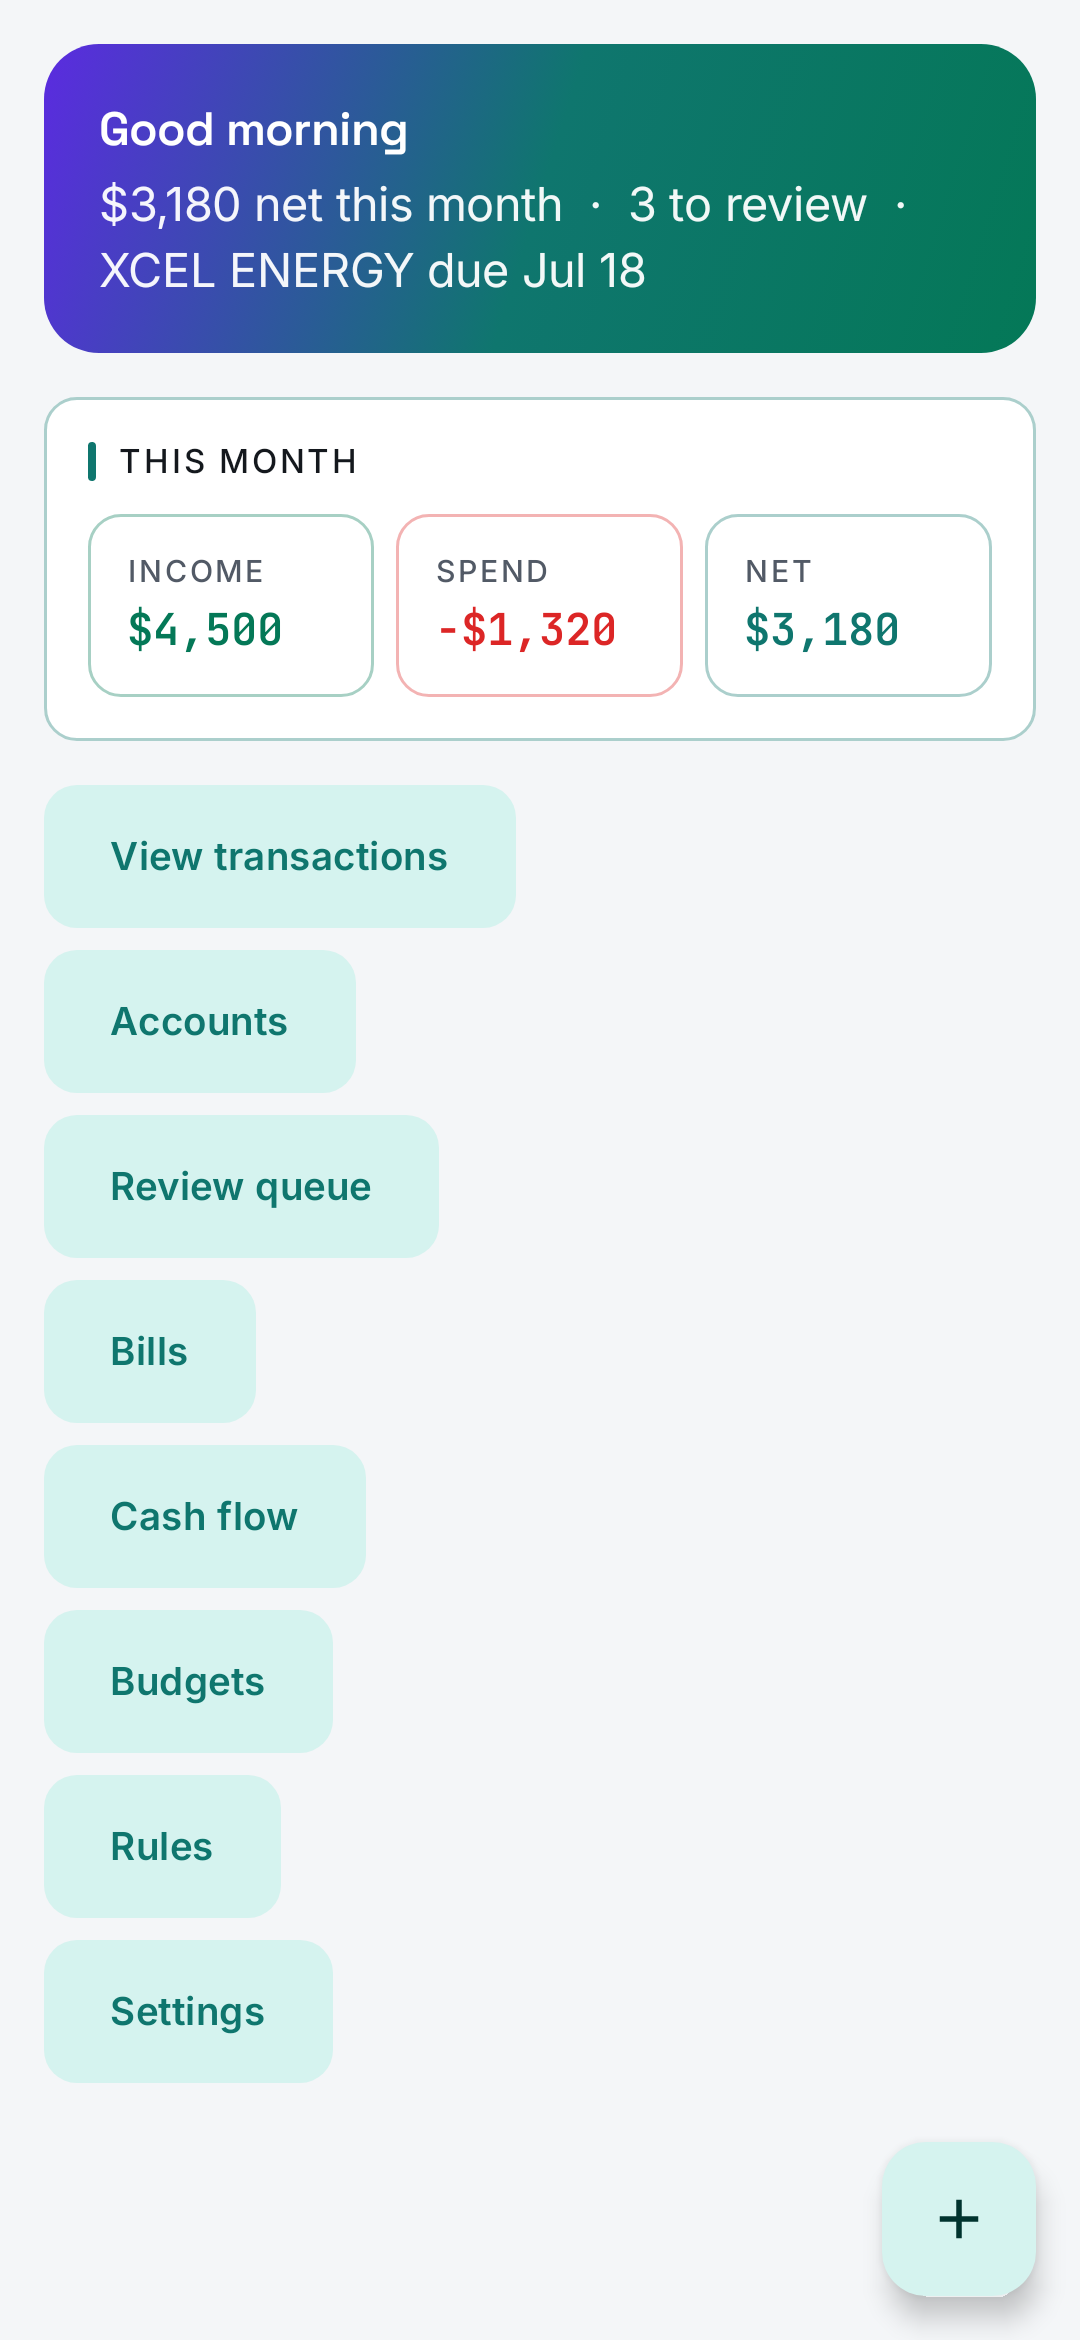
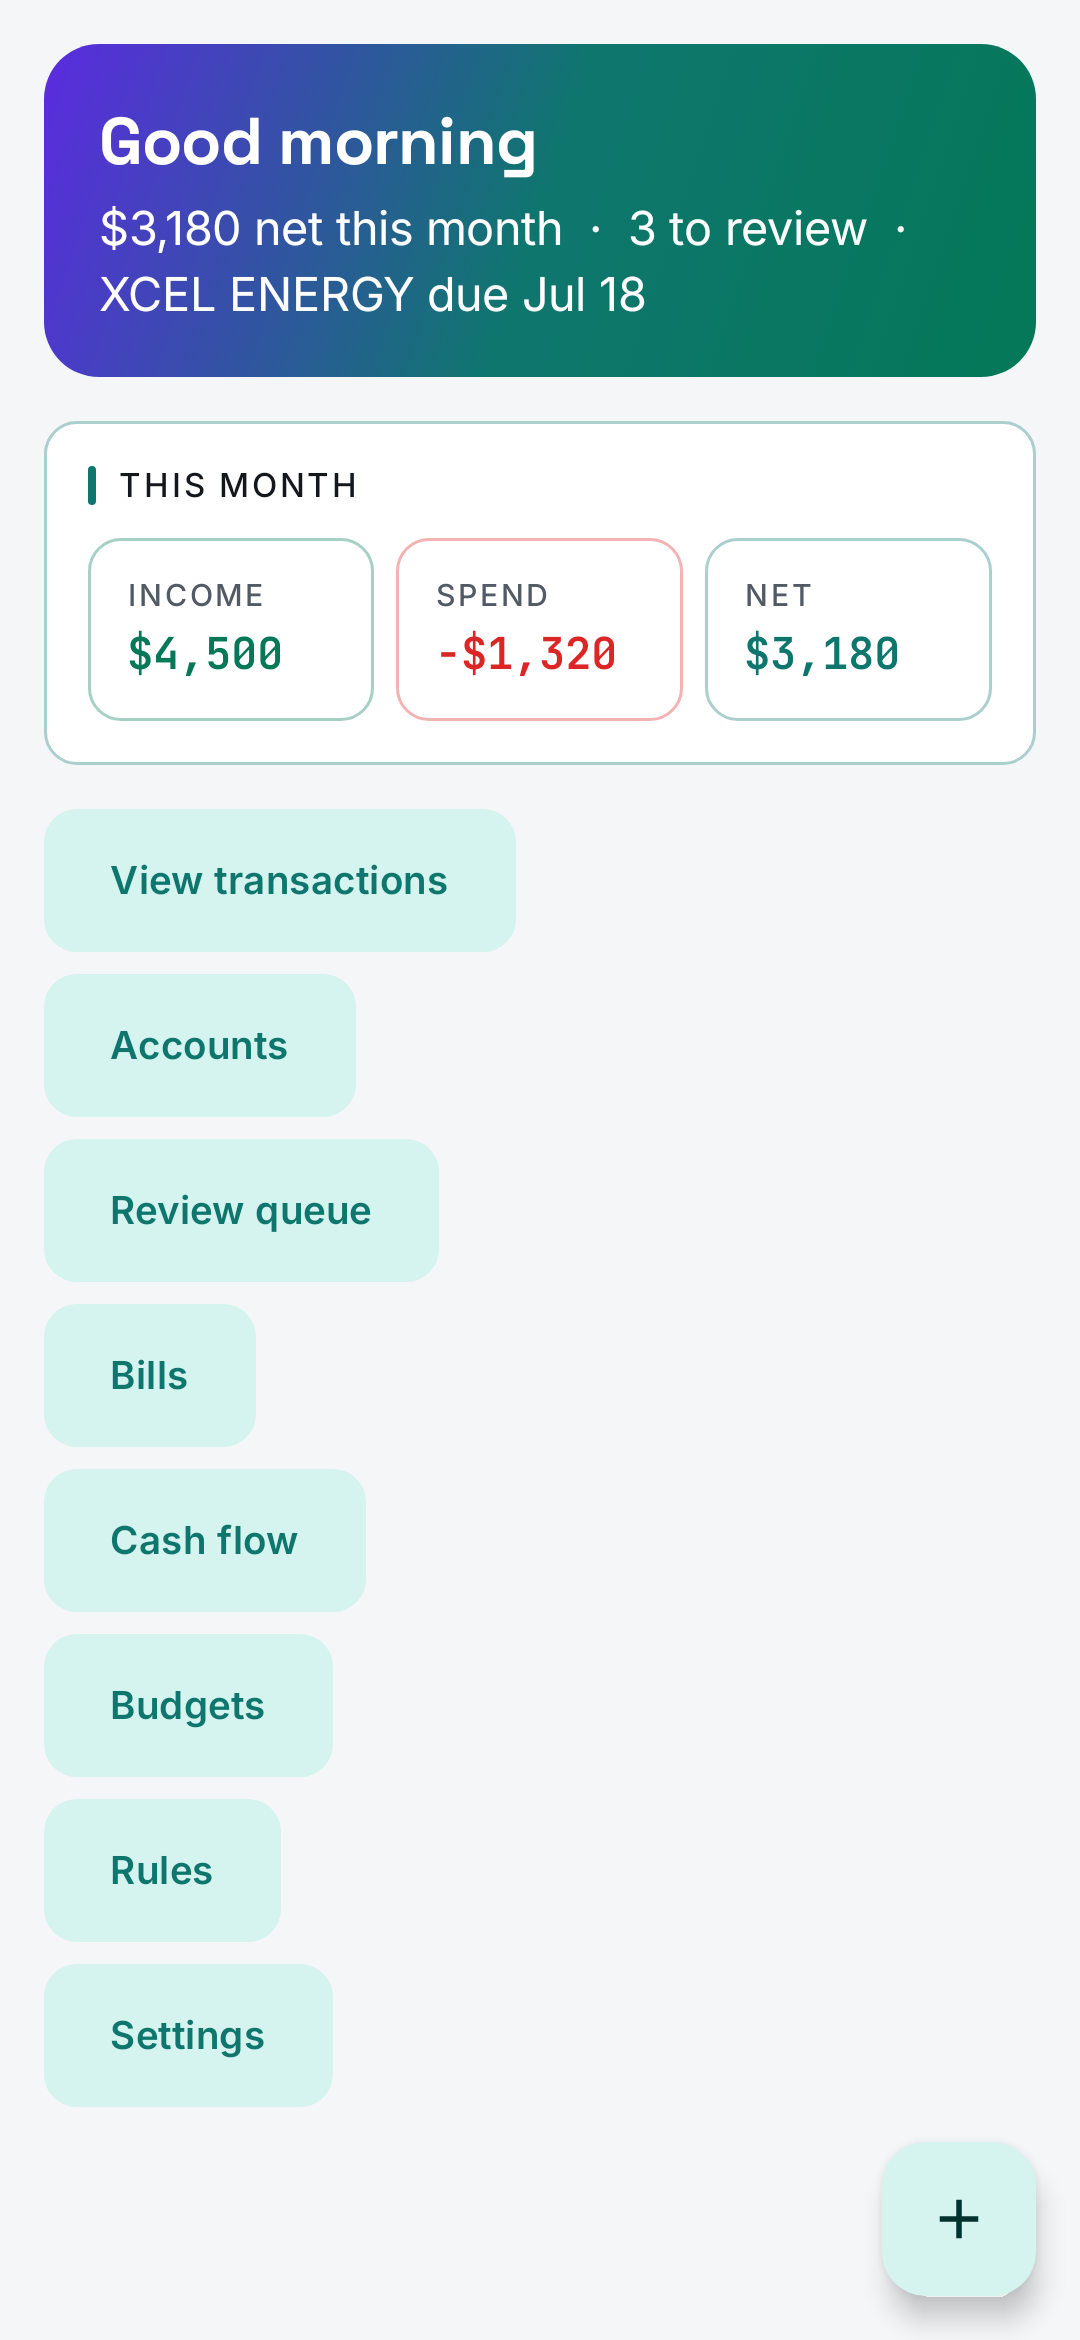
Tier 4 #28: enlarge hero text to Spotter's sizing
On-device the greeting read small. Matched Spotter's GreetingPanel: greeting
goes titleMedium -> headlineMedium (bold, prominent), and the status line is
full white (not 0.85 alpha) so it clears AA contrast on the hero gradient.
Home Roborazzi baselines re-recorded + eyeballed.

Claude-Session: https://claude.ai/code/session_014KjXd8hrEmpDJcuUSqhmB1

diff --git a/android/app/src/main/java/com/magpie/ui/home/HomeScreen.kt b/android/app/src/main/java/com/magpie/ui/home/HomeScreen.kt
@@ -146,16 +146,18 @@ private fun MagpieHero(state: HomeUiState.Ready) {
             .padding(20.dp),
     ) {
         Column {
+            // Sizes match Spotter's GreetingPanel — headlineMedium greeting, and a full-white
+            // (not alpha'd) status line so the subtitle clears AA contrast on the hero gradient.
             Text(
                 state.greeting,
-                style = MaterialTheme.typography.titleMedium,
+                style = MaterialTheme.typography.headlineMedium,
                 color = androidx.compose.ui.graphics.Color.White,
             )
             Spacer(Modifier.height(6.dp))
             Text(
                 heroStatusLine(state),
                 style = MaterialTheme.typography.bodyLarge,
-                color = androidx.compose.ui.graphics.Color.White.copy(alpha = 0.95f),
+                color = androidx.compose.ui.graphics.Color.White,
             )
         }
     }